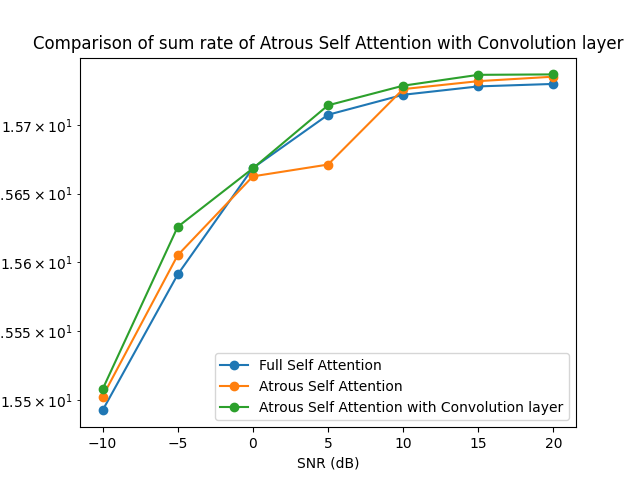
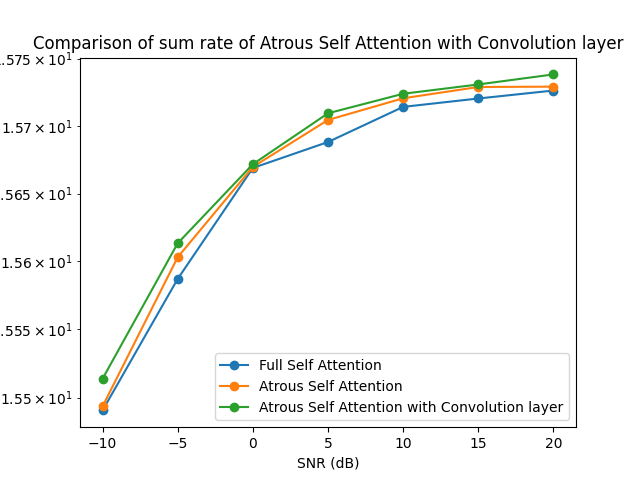
message

diff --git a/SPR-CNN/result-sparse-attention-and-convolution.py b/SPR-CNN/result-sparse-attention-and-convolution.py
@@ -13,21 +13,19 @@ y1 = [0.03987005725502968, 0.029254980385303497, 0.02019014209508896, 0.01805665
 # reshape type = (Nr, Nt, channel)
 # 自己寫的 multi-head attention
 # Atrous Self Attention
-y2 = [0.03990931808948517, 0.027489781379699707, 0.020104501396417618, 0.01623721234500408, 0.014446022920310497, 0.0135115347802639, 0.01348433643579483]
+y2 = [0.03955085948109627, 0.027489781379699707, 0.020104501396417618, 0.01623721234500408, 0.014446022920310497, 0.0135115347802639, 0.01348433643579483]
 
-# Not yet!
 # Transformers(Encoder * 2 + Decoder * 2), epochs = 200, lr = 0.0001, batch_size = 32
 # reshape type = (Nr, Nt, channel)
 # 自己寫的 multi-head attention
 # Local Self Attention
-y3 = [0.039571523666381836, 0.02931174635887146, 0.020710840821266174, 0.01748591847717762, 0.015006369911134243, 0.014497745782136917, 0.014882778748869896]
+y3 = [0.039571523666381836, 0.02931174635887146, 0.020710840821266174, 0.01748591847717762, 0.015006369911134243, 0.014497745782136917, 0.013845689594745636]
 
-# Not yet!
 # Transformers(Encoder * 2 + Decoder * 2), epochs = 200, lr = 0.0001, batch_size = 32
 # reshape type = (Nr, Nt, channel)
 # 自己寫的 multi-head attention
 # Stride Sparse Self Attention(2, 2), no(6, 2), (4, 2)because is worse
-y4 = [0.039743758738040924, 0.027776280418038368, 0.019192421808838844, 0.014876648783683777, 0.012890099547803402, 0.012358461506664753, 0.012501830235123634]
+y4 = [0.03988085314631462, 0.03053235076367855, 0.021756574511528015, 0.016308283433318138, 0.01488190982490778, 0.014069385826587677, 0.013697362504899502]
 
 # draw
 plt.plot(x, y1, marker='o', label='Full Self Attention')
@@ -66,21 +64,19 @@ y1 = [15.490602115597438, 15.58706522935487, 15.66893307641061, 15.6881340164924
 # reshape type = (Nr, Nt, channel)
 # 自己寫的 multi-head attention
 # Atrous Self Attention
-y2 = [15.490244286888137, 15.603043863477247, 15.669704313731152, 15.704488501364377, 15.72057086775953, 15.728954210281074, 15.729198126988027]
+y2 = [15.493512271257995, 15.603043863477247, 15.669704313731152, 15.704488501364377, 15.72057086775953, 15.728954210281074, 15.729198126988027]
 
-# Not yet!
 # Transformers(Encoder * 2 + Decoder * 2), epochs = 200, lr = 0.0001, batch_size = 32
 # reshape type = (Nr, Nt, channel)
 # 自己寫的 multi-head attention
 # Local Self Attention
-y3 = [15.493323801466287, 15.586551055087641, 15.664242912388673, 15.693266228231288, 15.715541668319254, 15.720106725025246, 15.716651054125423]
+y3 = [15.493323801466287, 15.586551055087641, 15.664242912388673, 15.693266228231288, 15.715541668319254, 15.720106725025246, 15.725957041500711]
 
-# Not yet!
 # Transformers(Encoder * 2 + Decoder * 2), epochs = 200, lr = 0.0001, batch_size = 32
 # reshape type = (Nr, Nt, channel)
 # 自己寫的 multi-head attention
 # Stride Sparse Self Attention
-y4 = [15.491753832581484, 15.600451582711955, 15.677915513269225, 15.716706038110257, 15.734526410074793, 15.739291727207052, 15.738006738750139]
+y4 = [15.49050379312277, 15.57549128270972, 15.654819170262888, 15.703850004969617, 15.716658933437483, 15.72395028205925, 15.727287494963191]
 
 # draw
 plt.plot(x, y1, marker='o', label='Full Self Attention')
@@ -138,7 +134,7 @@ y2 = [0.03987005725502968, 0.029254980385303497, 0.02019014209508896, 0.01805665
 # reshape type = (Nr, Nt, channel)
 # 自己寫的 multi-head attention
 # Atrous Self Attention
-y3 = [0.03990931808948517, 0.027489781379699707, 0.020104501396417618, 0.01623721234500408, 0.014446022920310497, 0.0135115347802639, 0.01348433643579483]
+y3 = [0.03955085948109627, 0.027489781379699707, 0.020104501396417618, 0.01623721234500408, 0.014446022920310497, 0.0135115347802639, 0.01348433643579483]
 
 # Transformers(Encoder * 2 + Decoder * 2, (16 * 32 * 4)), epochs = 400, lr = 0.0001, batch_size = 32
 # 自己寫的 multi-head self attention, Atrous Self Attention, ff layer 用 Conv1D
@@ -184,7 +180,7 @@ y2 = [15.490602115597438, 15.58706522935487, 15.66893307641061, 15.6881340164924
 # reshape type = (Nr, Nt, channel)
 # 自己寫的 multi-head attention
 # Atrous Self Attention
-y3 = [15.490244286888137, 15.603043863477247, 15.669704313731152, 15.704488501364377, 15.72057086775953, 15.728954210281074, 15.729198126988027]
+y3 = [15.493512271257995, 15.603043863477247, 15.669704313731152, 15.704488501364377, 15.72057086775953, 15.728954210281074, 15.729198126988027]
 
 # Transformers(Encoder * 2 + Decoder * 2, (16 * 32 * 4)), epochs = 400, lr = 0.0001, batch_size = 32
 # 自己寫的 multi-head self attention, Atrous Self Attention, ff layer 用 Conv1D

diff --git a/SPR-CNN/modality-aware.py b/SPR-CNN/modality-aware.py
@@ -383,49 +383,37 @@ for _ in range(encoder_block_num):  # Repeat the encoder encoder_block_num times
     x_fre = Add()([x_fre, ff_output])
     x_fre = LayerNormalization(epsilon=1e-6)(x_fre)
 
-    enc_output = x_time
-    x = x_time
-
     # Transformer Decoder Layer
-
-    # sequence mask
-    mask = tf.sequence_mask([8192/key_dim_num], maxlen=8192/key_dim_num, dtype=tf.float32)
-
-    # Masked Multi-Head Attention (self-attention on decoder inputs)
-    masked_self_attention_layer = Multi_Head_Attention(d_k=key_dim_num, d_v=key_dim_num, d_model=key_dim_num, num_heads = num_heads)
-    attn_output = masked_self_attention_layer(x, mask = mask)
-
-    # Add & Norm
-    x = Add()([x, attn_output])
-    x = LayerNormalization(epsilon=1e-6)(x)
-    x_after_masked_attention_time = x
-    x_after_masked_attention_fre = x
 
     # Multi-Head Attention Time(attention to encoder outputs)
     enc_output = x_time  # Assuming encoder output is available
     cross_attention_layer_time = Multi_Head_Attention(d_k=key_dim_num, d_v=key_dim_num, d_model=key_dim_num, num_heads = num_heads)
-    attn_output = cross_attention_layer_time(x_after_masked_attention_time, enc_output = enc_output)
+    attn_output = cross_attention_layer_time(x_time, enc_output = enc_output)
     
     # Add & Norm
-    x_after_masked_attention_time = Add()([x_after_masked_attention_time, attn_output])
-    x_after_masked_attention_time = LayerNormalization(epsilon=1e-6)(x_after_masked_attention_time)
+    x_time = Add()([x_time, attn_output])
+    x_time = LayerNormalization(epsilon=1e-6)(x_time)
 
     # Multi-Head Attention Fre(attention to encoder outputs)
     enc_output = x_fre  # Assuming encoder output is available
     cross_attention_layer_fre = Multi_Head_Attention(d_k=key_dim_num, d_v=key_dim_num, d_model=key_dim_num, num_heads = num_heads)
-    attn_output = cross_attention_layer_fre(x_after_masked_attention_fre, enc_output = enc_output)
+    attn_output = cross_attention_layer_fre(x_fre, enc_output = enc_output)
     
     # Add & Norm
-    x_after_masked_attention_fre = Add()([x_after_masked_attention_fre, attn_output])
-    x_after_masked_attention_fre = LayerNormalization(epsilon=1e-6)(x_after_masked_attention_fre)
+    x_fre = Add()([x_fre, attn_output])
+    x_fre = LayerNormalization(epsilon=1e-6)(x_fre)
 
-    x =  (x_after_masked_attention_time + x_after_masked_attention_fre) / 2
 
-    # Feed Forward Layer
-    # ff_output = Dense(units=key_dim_num, activation='relu')(x)
-    ff_output = Conv1D(filters=key_dim_num, kernel_size=3, padding='same', activation='relu')(x)
-    x = Add()([x, ff_output])
-    x = LayerNormalization(epsilon=1e-6)(x)
+# Concat x_time & x_fre
+IFFT_layer = IFFT()
+x_fre = IFFT_layer(x_fre)
+x =  (x_time + x_fre) / 2
+
+# Feed Forward Layer
+# ff_output = Dense(units=key_dim_num, activation='relu')(x)
+ff_output = Conv1D(filters=key_dim_num, kernel_size=3, padding='same', activation='relu')(x)
+x = Add()([x, ff_output])
+x = LayerNormalization(epsilon=1e-6)(x)
 
 
 # Output layer

diff --git a/SPR-CNN/result-fft.py b/SPR-CNN/result-fft.py
@@ -12,20 +12,14 @@ y2 = [0.03733016178011894, 0.026352835819125175, 0.01988144963979721, 0.01568548
 
 # Not yet!
 # Transformers(Encoder * 2 + Decoder * 2, (16 * 32 * 4)), epochs = 200, lr = 0.0001, batch_size = 32
-# 自己寫的 multi-head self attention, Atrous Self Attention, ff layer 用 Conv1D, 使用 fft in multi-head-attention
-y3 = [0.04002300277352333, 0.025759074836969376, 0.028633849695324898, 0.01591109298169613, 0.01619063876569271, 0.014287014491856098, 0.013909406960010529]
-
-# Not yet!
-# Transformers(Encoder * 2 + Decoder * 2, (16 * 32 * 4)), epochs = 200, lr = 0.0001, batch_size = 32
 # 自己寫的 multi-head self attention, Atrous Self Attention, ff layer 用 Conv1D
 # Modality-aware Transformer
-y4 = [0.04002300277352333, 0.025759074836969376, 0.028633849695324898, 0.01591109298169613, 0.01619063876569271, 0.014287014491856098, 0.013909406960010529]
+y3 = [0.04002300277352333, 0.025759074836969376, 0.028633849695324898, 0.01591109298169613, 0.01619063876569271, 0.014287014491856098, 0.013909406960010529]
 
 # draw
 # plt.plot(x, y1, marker='o', label='CNN')
 plt.plot(x, y2, marker='o', label='Atrous Self Attention with Convolution layer')
-plt.plot(x, y3, marker='o', label='Atrous Self Attention with Convolution layer with fft in multi-head-attention')
-plt.plot(x, y4, marker='o', label='Modality-aware Transformer')
+plt.plot(x, y3, marker='o', label='Modality-aware Transformer')
 
 
 # set y-axis to log scale
@@ -58,20 +52,14 @@ y2 = [15.513741995396554, 15.613326189757453, 15.67171283671444, 15.709444124244
 
 # Not yet!
 # Transformers(Encoder * 2 + Decoder * 2, (16 * 32 * 4)), epochs = 200, lr = 0.0001, batch_size = 32
-# 自己寫的 multi-head self attention, Atrous Self Attention, ff layer 用 Conv1D, 使用 fft in multi-head-attention
-y3 = [15.489207487952974, 15.618692996837884, 15.592689694203141, 15.707417936913393, 15.704906880100955, 15.721997719195706, 15.725385431670285]
-
-# Not yet!
-# Transformers(Encoder * 2 + Decoder * 2, (16 * 32 * 4)), epochs = 200, lr = 0.0001, batch_size = 32
 # 自己寫的 multi-head self attention, Atrous Self Attention, ff layer 用 Conv1D
 # Modality-aware Transformer
-y4 = [15.489207487952974, 15.618692996837884, 15.592689694203141, 15.707417936913393, 15.704906880100955, 15.721997719195706, 15.725385431670285]
+y3 = [15.489207487952974, 15.618692996837884, 15.592689694203141, 15.707417936913393, 15.704906880100955, 15.721997719195706, 15.725385431670285]
 
 # draw
 # plt.plot(x, y1, marker='o', label='CNN')
 plt.plot(x, y2, marker='o', label='Atrous Self Attention with Convolution layer')
-plt.plot(x, y3, marker='o', label='Atrous Self Attention with Convolution layer with fft in multi-head-attention')
-plt.plot(x, y4, marker='o', label='Modality-aware Transformer')
+plt.plot(x, y3, marker='o', label='Modality-aware Transformer')
 
 # set y-axis to log scale
 plt.yscale('log')

diff --git a/SPR-CNN/main.py b/SPR-CNN/main.py
@@ -30,7 +30,7 @@ encoder_block_num = 2
 decoder_block_num = 2
 learning_rate_num = 1e-4
 key_dim_num = 256
-num_heads = 6  # Number of attention heads
+num_heads = 4  # Number of attention heads
 
 print("TensorFlow 版本:", tf.__version__)
 print("epochs_num = ", epochs_num)
@@ -344,8 +344,8 @@ for _ in range(encoder_block_num):  # Repeat the encoder encoder_block_num times
     x = LayerNormalization(epsilon=1e-6)(x)
 
     # Feed Forward Layer
-    # ff_output = Dense(units=key_dim_num, activation='relu')(x)
-    ff_output = Conv1D(filters=key_dim_num, kernel_size=3, padding='same', activation='relu')(x)
+    ff_output = Dense(units=key_dim_num, activation='relu')(x)
+    # ff_output = Conv1D(filters=key_dim_num, kernel_size=3, padding='same', activation='relu')(x)
     x = Add()([x, ff_output])
     x = LayerNormalization(epsilon=1e-6)(x)
 
@@ -374,8 +374,8 @@ for _ in range(encoder_block_num):  # Repeat the encoder encoder_block_num times
     x = LayerNormalization(epsilon=1e-6)(x)
 
     # Feed Forward Layer
-    # ff_output = Dense(units=key_dim_num, activation='relu')(x)
-    ff_output = Conv1D(filters=key_dim_num, kernel_size=3, padding='same', activation='relu')(x)
+    ff_output = Dense(units=key_dim_num, activation='relu')(x)
+    # ff_output = Conv1D(filters=key_dim_num, kernel_size=3, padding='same', activation='relu')(x)
     x = Add()([x, ff_output])
     x = LayerNormalization(epsilon=1e-6)(x)
 

diff --git a/SPR-CNN/sparse_attention.py b/SPR-CNN/sparse_attention.py
@@ -81,11 +81,6 @@ class Multi_Head_Attention(tf.keras.layers.Layer):
         # Process each head iteratively
         for i in range(self.num_heads):
 
-            if i == 3:
-                inputs = fft(inputs)
-            if i == 3 and enc_output is not None:
-                enc_output = fft(enc_output)
-
             Q = tf.matmul(inputs, self.Wq[i])  # (B, L, d_k)
 
             if enc_output is not None:
@@ -117,7 +112,6 @@ class Multi_Head_Attention(tf.keras.layers.Layer):
             # Sum up the outputs of all heads
             total_output += output
         
-        total_output = ifft(total_output)
         total_output = total_output / self.num_heads
         
         return total_output

diff --git a/SPR-CNN/loop.py b/SPR-CNN/loop.py
@@ -22,7 +22,7 @@ SNR_dB_range = range(-10, 21, 5)
 # 遍历 SNR_dB 参数的范围
 for SNR_dB in SNR_dB_range:
     # 构建完整的命令字符串
-    command = f"{base_command} 5"
+    command = f"{base_command} 20"
     
     # 执行命令
     result = subprocess.run(command, shell=True)
